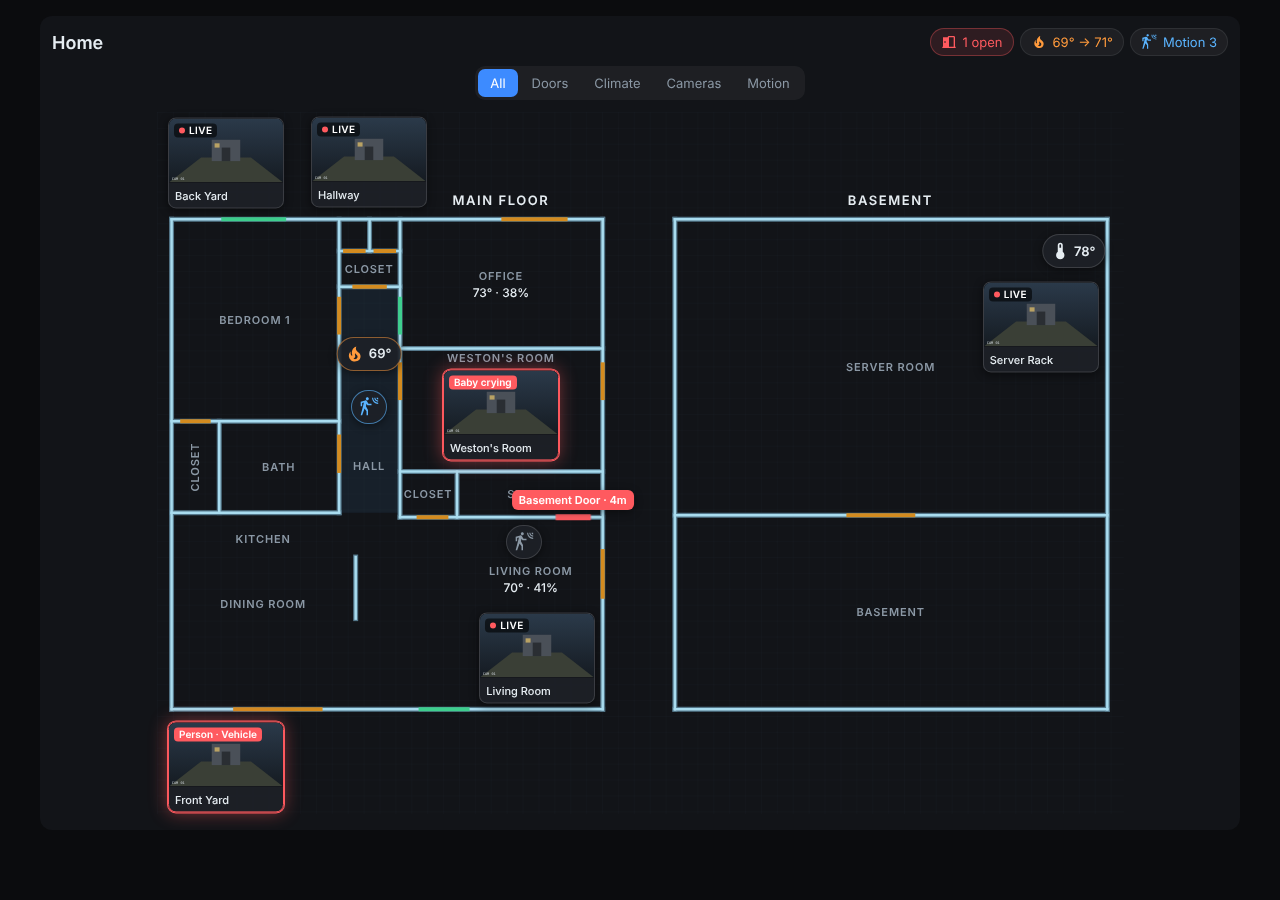
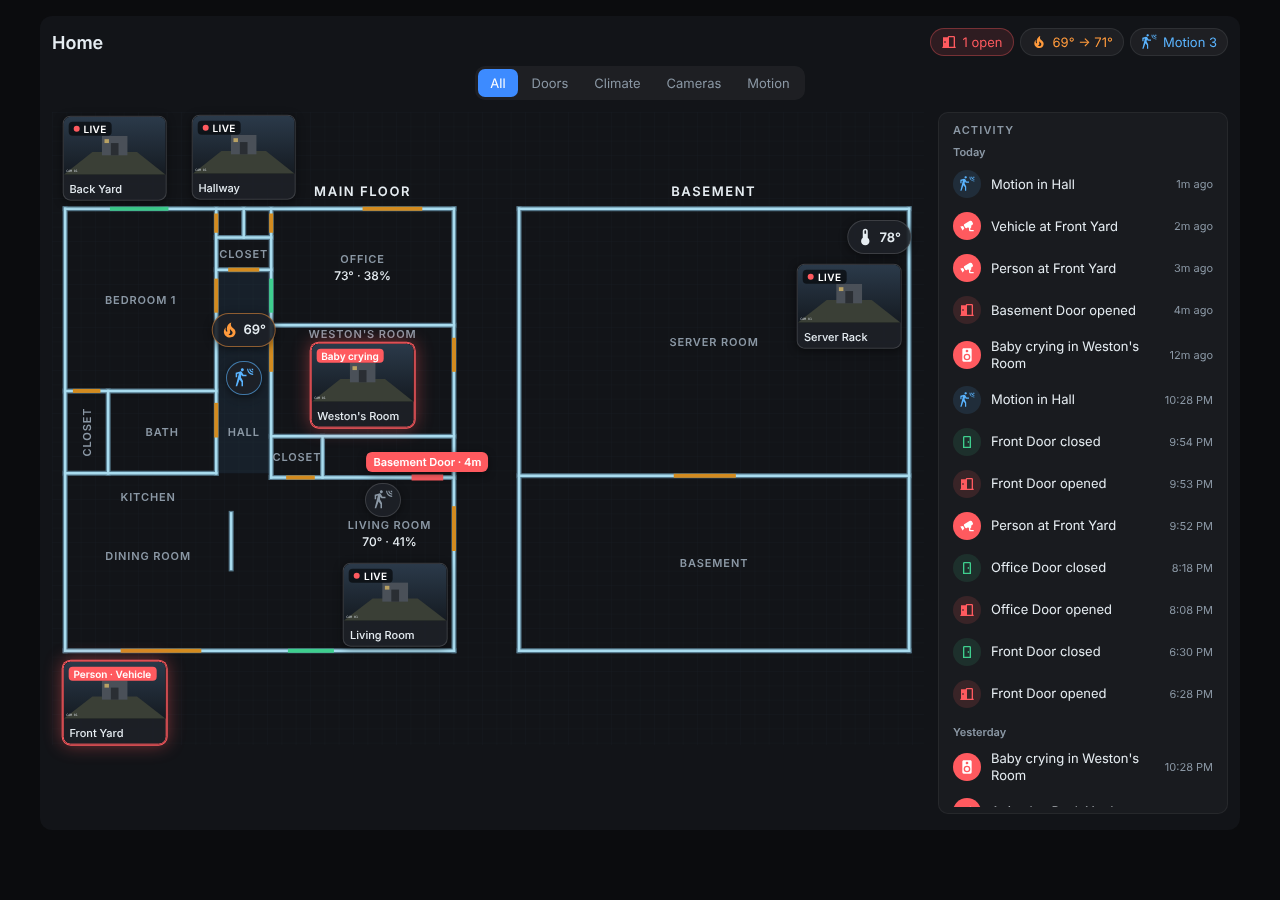
Add activity feed, move small closet doors to bedroom and office

Changed region(s): [[0.0312, 0.1244, 0.875, 0.9333], [0.9062, 0.84, 0.9375, 0.8711], [0.9062, 0.4356, 0.9375, 0.4667]]

diff --git a/home-view-card.js b/home-view-card.js
@@ -1,4 +1,4 @@
-const VERSION = "0.3.1";
+const VERSION = "0.4.0";
 
 const ICON = {
   door: "M8,3C6.89,3 6,3.89 6,5V21H18V5C18,3.89 17.11,3 16,3H8M8,5H16V19H8V5M13,11V13H15V11H13Z",
@@ -26,7 +26,7 @@ const ICON = {
   help: "M11,18H13V16H11V18M12,2A10,10 0 0,0 2,12A10,10 0 0,0 12,22A10,10 0 0,0 22,12A10,10 0 0,0 12,2M12,20C7.59,20 4,16.41 4,12C4,7.59 7.59,4 12,4C16.41,4 20,7.59 20,12C20,16.41 16.41,20 12,20M12,6A4,4 0 0,0 8,10H10A2,2 0 0,1 12,8A2,2 0 0,1 14,10C14,12 11,11.75 11,15H13C13,12.75 16,12.5 16,10A4,4 0 0,0 12,6Z",
 };
 
-const DEFAULT_PLAN = {view_box:[55,-115,1460,1060],stack:{split_x:780,move:[-760,920],below:700},labels:[{text:"Main Floor",x:575,y:18},{text:"Basement",x:1163,y:18}],rooms:[{name:"Bedroom 1",rect:[77,47,330,352]},{name:"Closet",rect:[77,352,149,490],vertical:true},{name:"Bath",rect:[149,352,330,490]},{name:"Closet",rect:[330,95,422,149]},{rect:[330,47,376,95]},{rect:[376,47,422,95]},{name:"Hall",rect:[330,149,422,490],label_at:[376,420]},{name:"Office",rect:[422,47,728,242]},{name:"Weston's Room",rect:[422,242,728,428],label_at:[575,256]},{name:"Closet",rect:[422,428,508,497]},{name:"Stairs",rect:[508,428,728,497]},{name:"Kitchen",rect:[77,490,355,650],label_at:[216,530]},{name:"Living Room",points:[[355,490],[422,490],[422,497],[728,497],[728,787],[355,787]],label_at:[620,590]},{name:"Dining Room",rect:[77,650,355,787],label_at:[216,628]},{name:"Server Room",rect:[837,47,1490,494]},{name:"Basement",rect:[837,494,1490,787]}],walls:[[77,47,728,47],[728,47,728,787],[728,787,77,787],[77,787,77,47],[330,47,330,490],[77,352,330,352],[422,47,422,497],[422,242,728,242],[422,428,728,428],[422,497,728,497],[355,557,355,650],[77,490,330,490],[508,428,508,497],[149,352,149,490],[330,149,422,149],[330,95,422,95],[376,47,376,95],[837,47,1490,47],[1490,47,1490,787],[1490,787,837,787],[837,787,837,47],[837,494,1490,494]],half_walls:[],openings:[{name:"Front Door",type:"door",line:[450,787,527,787]},{name:"Patio Door",type:"door",line:[170,787,305,787]},{name:"Side Door",type:"door",line:[728,545,728,620]},{name:"Bedroom Sliding",type:"door",line:[152,47,250,47]},{name:"Office Window",type:"window",line:[575,47,675,47]},{name:"Bedroom 1 Door",line:[330,164,330,221]},{name:"Hall Closet Door",line:[350,149,402,149]},{name:"Closet Door",line:[336,95,370,95]},{name:"Closet Door",line:[382,95,416,95]},{name:"Bedroom 1 Closet Door",line:[90,352,136,352]},{name:"Bath Door",line:[330,372,330,430]},{name:"Office Door",type:"door",line:[422,164,422,221]},{name:"Weston's Room Door",line:[422,263,422,320]},{name:"Weston's Room Window",type:"window",line:[728,263,728,320]},{name:"Closet Door",line:[447,497,495,497]},{name:"Basement Door",type:"door",line:[657,497,710,497]},{name:"Basement Door",line:[1096,494,1200,494]}]};
+const DEFAULT_PLAN = {view_box:[55,-115,1460,1060],stack:{split_x:780,move:[-760,920],below:700},labels:[{text:"Main Floor",x:575,y:18},{text:"Basement",x:1163,y:18}],rooms:[{name:"Bedroom 1",rect:[77,47,330,352]},{name:"Closet",rect:[77,352,149,490],vertical:true},{name:"Bath",rect:[149,352,330,490]},{name:"Closet",rect:[330,95,422,149]},{rect:[330,47,376,95]},{rect:[376,47,422,95]},{name:"Hall",rect:[330,149,422,490],label_at:[376,420]},{name:"Office",rect:[422,47,728,242]},{name:"Weston's Room",rect:[422,242,728,428],label_at:[575,256]},{name:"Closet",rect:[422,428,508,497]},{name:"Stairs",rect:[508,428,728,497]},{name:"Kitchen",rect:[77,490,355,650],label_at:[216,530]},{name:"Living Room",points:[[355,490],[422,490],[422,497],[728,497],[728,787],[355,787]],label_at:[620,590]},{name:"Dining Room",rect:[77,650,355,787],label_at:[216,628]},{name:"Server Room",rect:[837,47,1490,494]},{name:"Basement",rect:[837,494,1490,787]}],walls:[[77,47,728,47],[728,47,728,787],[728,787,77,787],[77,787,77,47],[330,47,330,490],[77,352,330,352],[422,47,422,497],[422,242,728,242],[422,428,728,428],[422,497,728,497],[355,557,355,650],[77,490,330,490],[508,428,508,497],[149,352,149,490],[330,149,422,149],[330,95,422,95],[376,47,376,95],[837,47,1490,47],[1490,47,1490,787],[1490,787,837,787],[837,787,837,47],[837,494,1490,494]],half_walls:[],openings:[{name:"Front Door",type:"door",line:[450,787,527,787]},{name:"Patio Door",type:"door",line:[170,787,305,787]},{name:"Side Door",type:"door",line:[728,545,728,620]},{name:"Bedroom Sliding",type:"door",line:[152,47,250,47]},{name:"Office Window",type:"window",line:[575,47,675,47]},{name:"Bedroom 1 Door",line:[330,164,330,221]},{name:"Hall Closet Door",line:[350,149,402,149]},{name:"Bedroom 1 Closet Door",line:[330,55,330,87]},{name:"Office Closet Door",line:[422,55,422,87]},{name:"Bedroom 1 Closet Door",line:[90,352,136,352]},{name:"Bath Door",line:[330,372,330,430]},{name:"Office Door",type:"door",line:[422,164,422,221]},{name:"Weston's Room Door",line:[422,263,422,320]},{name:"Weston's Room Window",type:"window",line:[728,263,728,320]},{name:"Closet Door",line:[447,497,495,497]},{name:"Basement Door",type:"door",line:[657,497,710,497]},{name:"Basement Door",line:[1096,494,1200,494]}]};
 
 const OPEN_STATES = new Set(["on", "open", "opening", "closing", "unlocked", "unlocking", "jammed"]);
 const DEAD_STATES = new Set(["unavailable", "unknown"]);
@@ -134,6 +134,7 @@ const STYLE = `
 }
 ha-card {
   display: block;
+  container: hv-card / inline-size;
   padding: 12px 12px 16px;
   background: var(--hv-bg);
   color: var(--hv-text);
@@ -165,6 +166,35 @@ ha-card {
   font: inherit; font-size: 13px; cursor: pointer; white-space: nowrap; flex: none;
 }
 .tab.on { background: var(--hv-accent); color: #fff; }
+.body { display: flex; flex-direction: column; gap: 14px; }
+.plan-wrap { min-width: 0; }
+.log {
+  display: flex; flex-direction: column; box-sizing: border-box; max-height: 340px; padding: 10px 6px 6px;
+  border-radius: 10px; border: 1px solid rgba(255,255,255,0.06); background: rgba(255,255,255,0.03);
+}
+.log h3 { margin: 0 8px 6px; color: var(--hv-muted); font-size: 11px; font-weight: 600; letter-spacing: 0.1em; text-transform: uppercase; }
+.log ul { list-style: none; margin: 0; padding: 0; overflow-y: auto; scrollbar-width: thin; }
+.log .day { padding: 10px 8px 4px; color: var(--hv-muted); font-size: 11px; font-weight: 600; }
+.log .day:first-child { padding-top: 2px; }
+.log .item {
+  display: flex; align-items: center; gap: 10px; width: 100%; padding: 7px 8px; border: 0; border-radius: 8px;
+  background: none; color: var(--hv-text); font: inherit; text-align: left; cursor: pointer;
+}
+.log .item:hover { background: rgba(255,255,255,0.05); }
+.log .dot { display: grid; place-items: center; flex: none; width: 28px; height: 28px; border-radius: 50%; background: rgba(255,255,255,0.06); color: var(--hv-muted); }
+.log .dot svg { width: 16px; height: 16px; fill: currentColor; }
+.log .open .dot { color: var(--hv-open); background: rgba(255,90,95,0.14); }
+.log .ok .dot { color: var(--hv-closed); background: rgba(62,207,142,0.12); }
+.log .cool .dot { color: var(--hv-cool); background: rgba(90,180,255,0.12); }
+.log .alert .dot { color: #fff; background: var(--hv-open); }
+.log .txt { flex: 1; min-width: 0; font-size: 13px; line-height: 1.3; }
+.log .when { flex: none; color: var(--hv-muted); font-size: 11px; white-space: nowrap; }
+.log .empty { padding: 8px; color: var(--hv-muted); font-size: 13px; }
+@container hv-card (min-width: 860px) {
+  .body { flex-direction: row; align-items: flex-start; }
+  .plan-wrap { flex: 1 1 auto; }
+  .log { flex: none; width: var(--hv-log-width, 290px); max-height: var(--hv-max-height, 78vh); }
+}
 .plan {
   position: relative; margin: 0 auto;
   aspect-ratio: var(--ratio);
@@ -298,6 +328,9 @@ class HomeViewCard extends HTMLElement {
 
   setConfig(config) {
     if (!config) throw new Error("Invalid configuration");
+    this._events = [];
+    this._seen = new Map();
+    this._historyLoaded = false;
     this._config = config.walls || config.rooms ? config : { ...DEFAULT_PLAN, ...config };
     this._built = false;
     if (this._hass) this._build();
@@ -370,7 +403,9 @@ class HomeViewCard extends HTMLElement {
     if (this._stacked) {
       const { split_x, move: [mx, my] } = cfg.stack;
       shift = (x, y) => (x >= split_x ? [x + mx, y + my] : [x, y]);
-      vb = [vb[0], vb[1], vb[2] + mx, vb[3] + my];
+      const moved = (cfg.walls || []).filter((w) => w[0] >= split_x && w[2] >= split_x).flatMap((w) => [w[1], w[3]]);
+      const bottom = Math.max(vb[1] + vb[3], ...moved.map((y) => y + my + 24));
+      vb = [vb[0], vb[1], vb[2] + mx, bottom - vb[1]];
     }
     const t = transform(vb, this._rotation);
     const fn = (x, y) => t.fn(...shift(x, y));
@@ -482,7 +517,16 @@ class HomeViewCard extends HTMLElement {
     });
 
     plan.append(svg, overlay);
-    card.append(plan);
+    const body = h("div", { class: "body" }, h("div", { class: "plan-wrap" }, plan));
+    this._watch = this._watchList();
+    this._log = null;
+    if (cfg.log !== false && this._watch.size) {
+      this._logList = h("ul");
+      this._log = h("aside", { class: "log" }, h("h3", {}, cfg.log_title || "Activity"), this._logList);
+      body.append(this._log);
+      this._logKey = "";
+    }
+    card.append(body);
     root.append(card);
     this._built = true;
     if (hass) {
@@ -490,6 +534,145 @@ class HomeViewCard extends HTMLElement {
       this._update();
       this._refreshCameras();
     }
+  }
+
+  _watchList() {
+    const cfg = this._config;
+    const m = new Map();
+    for (const o of cfg.openings || []) {
+      if (o.entity) m.set(o.entity, { type: o.type === "window" ? "window" : "door", name: o.name });
+    }
+    for (const r of cfg.rooms || []) {
+      for (const e of [].concat(r.motion || [])) m.set(e, { type: "motion", name: r.name, where: "in" });
+    }
+    for (const d of cfg.devices || []) {
+      const domain = d.entity.split(".")[0];
+      if (domain === "camera") {
+        const name = d.name || this._hass?.states[d.entity]?.attributes.friendly_name || d.entity;
+        for (const e of [].concat(d.motion || [])) m.set(e, { type: "motion", name, where: "at", camera: d.entity });
+        for (const e of [].concat(d.detections || [])) m.set(e, { type: "detect", name, camera: d.entity });
+      } else if (domain === "binary_sensor" && !m.has(d.entity)) {
+        const dc = this._hass?.states[d.entity]?.attributes.device_class;
+        if (OPENING_CLASSES.has(dc)) m.set(d.entity, { type: dc === "window" ? "window" : "door", name: d.name });
+        else if (MOTION_CLASSES.has(dc)) m.set(d.entity, { type: "motion", name: d.name, where: "at" });
+      }
+    }
+    return m;
+  }
+
+  _describe(id, state) {
+    const w = this._watch.get(id);
+    if (!w || DEAD_STATES.has(state)) return null;
+    const on = state === "on" || state === "open";
+    const name = w.name || this._hass.states[id]?.attributes.friendly_name || id;
+    if (w.type === "door" || w.type === "window") {
+      const open = w.type === "window" ? ICON.windowOpen : ICON.doorOpen;
+      const shut = w.type === "window" ? ICON.window : ICON.door;
+      return on ? { text: `${name} opened`, tone: "open", icon: open } : { text: `${name} closed`, tone: "ok", icon: shut };
+    }
+    if (!on) return null;
+    if (w.type === "motion") return { text: `Motion ${w.where || "at"} ${name}`, tone: "cool", icon: ICON.motion, target: w.camera };
+    const m = id.match(/baby_cry|person|vehicle|animal|package|face|smoke|glass_break|motion/);
+    const label = m ? DETECT_LABELS[m[0]] : this._hass.states[id]?.attributes.friendly_name || "Detection";
+    const text = m?.[0] === "baby_cry" ? `Baby crying in ${name}` : `${label} at ${name}`;
+    return { text, tone: "alert", icon: m?.[0] === "baby_cry" ? ICON.speaker : ICON.cctv, target: w.camera };
+  }
+
+  _pushEvent(id, state, when) {
+    if (!this._describe(id, state)) return false;
+    if (this._events.some((e) => e.id === id && e.when === when)) return false;
+    this._events.push({ id, state, when });
+    return true;
+  }
+
+  _trackEvents() {
+    if (!this._watch?.size) return;
+    let changed = false;
+    for (const id of this._watch.keys()) {
+      const st = this._hass.states[id];
+      if (!st) continue;
+      const prev = this._seen.get(id);
+      if (prev && prev.lc !== st.last_changed && prev.state !== st.state) {
+        changed = this._pushEvent(id, st.state, Date.parse(st.last_changed)) || changed;
+      }
+      this._seen.set(id, { lc: st.last_changed, state: st.state });
+    }
+    if (changed) this._trimEvents();
+    if (!this._historyLoaded && this._log) {
+      this._historyLoaded = true;
+      this._loadHistory();
+    }
+  }
+
+  _trimEvents() {
+    this._events.sort((a, b) => b.when - a.when);
+    this._events.length = Math.min(this._events.length, this._config.log_max || 60);
+  }
+
+  async _loadHistory() {
+    const hass = this._hass;
+    if (!hass.callApi) return;
+    const hours = this._config.log_hours || 24;
+    const start = new Date(Date.now() - hours * 3600000).toISOString();
+    const ids = [...this._watch.keys()].filter((id) => hass.states[id]);
+    if (!ids.length) return;
+    try {
+      const data = await hass.callApi(
+        "GET",
+        `history/period/${start}?filter_entity_id=${ids.join(",")}&minimal_response&no_attributes`
+      );
+      for (const list of data || []) {
+        const id = list[0]?.entity_id;
+        let prev = list[0]?.state;
+        for (const s of list.slice(1)) {
+          if (s.state !== prev) this._pushEvent(id, s.state, Date.parse(s.last_changed));
+          prev = s.state;
+        }
+      }
+      this._trimEvents();
+      this._renderLog();
+    } catch (err) {
+      console.warn("home-view-card: could not load history", err);
+    }
+  }
+
+  _renderLog() {
+    if (!this._log) return;
+    const now = new Date();
+    const key = `${this._events.length}:${this._events[0]?.when}:${Math.floor(now / 60000)}`;
+    if (key === this._logKey) return;
+    this._logKey = key;
+    const dayName = (d) => {
+      const days = Math.round((new Date(now).setHours(0, 0, 0, 0) - new Date(d).setHours(0, 0, 0, 0)) / 86400000);
+      if (days === 0) return "Today";
+      if (days === 1) return "Yesterday";
+      return d.toLocaleDateString([], { weekday: "long", month: "short", day: "numeric" });
+    };
+    const when = (ms) => {
+      const min = Math.floor((now - ms) / 60000);
+      if (min < 1) return "just now";
+      if (min < 60) return `${min}m ago`;
+      return new Date(ms).toLocaleTimeString([], { hour: "numeric", minute: "2-digit" });
+    };
+    const items = [];
+    let lastDay = "";
+    for (const e of this._events) {
+      const info = this._describe(e.id, e.state);
+      if (!info) continue;
+      const day = dayName(new Date(e.when));
+      if (day !== lastDay) {
+        items.push(h("li", { class: "day" }, day));
+        lastDay = day;
+      }
+      const dot = h("span", { class: "dot" });
+      dot.innerHTML = iconSvg(info.icon);
+      const btn = h("button", { class: `item ${info.tone}`, title: new Date(e.when).toLocaleString() }, dot,
+        h("span", { class: "txt" }, info.text), h("span", { class: "when" }, when(e.when)));
+      btn.addEventListener("click", () => this._moreInfo(info.target || e.id));
+      items.push(h("li", {}, btn));
+    }
+    if (!items.length) items.push(h("li", { class: "empty" }, "Nothing yet. Door, motion and camera events will show up here."));
+    this._logList.replaceChildren(...items);
   }
 
   _bindPress(node, onTap, onHold) {
@@ -682,6 +865,8 @@ class HomeViewCard extends HTMLElement {
     }
 
     this._renderChips({ openNames, watched, locks, unlocked, lightsOn, motion, climate });
+    this._trackEvents();
+    this._renderLog();
     if (!this._tabs.childElementCount) this._renderTabs();
     this._applyLayer();
   }

diff --git a/demo/index.html b/demo/index.html
@@ -61,7 +61,26 @@ const states = {
 };
 
 const card = document.getElementById("card");
-const push = () => { card.hass = { states: { ...states }, callService, hassUrl: (p) => p }; };
+const push = () => { card.hass = { states: { ...states }, callService, callApi, hassUrl: (p) => p }; };
+
+async function callApi(method, path) {
+  const ids = decodeURIComponent(path.split("filter_entity_id=")[1].split("&")[0]).split(",");
+  const at = (min) => new Date(Date.now() - min * 60000).toISOString();
+  const script = {
+    "binary_sensor.door_front_contact": [[300, "on"], [298, "off"], [95, "on"], [94, "off"]],
+    "binary_sensor.door_office_contact": [[200, "on"], [190, "off"]],
+    "binary_sensor.door_basement_contact": [[4, "on"]],
+    "binary_sensor.driveway_person_detected": [[96, "on"], [95, "off"], [3, "on"]],
+    "binary_sensor.driveway_vehicle_detected": [[2, "on"]],
+    "binary_sensor.westons_room_baby_cry_detected": [[1500, "on"], [1497, "off"], [12, "on"]],
+    "binary_sensor.hallway1_motion": [[60, "on"], [59, "off"], [1, "on"]],
+    "binary_sensor.backyard_animal_detected": [[1700, "on"], [1699, "off"]],
+  };
+  return ids.filter((id) => script[id]).map((id) => [
+    { entity_id: id, state: "off", last_changed: at(1800) },
+    ...script[id].map(([m, s]) => ({ state: s, last_changed: at(m) })),
+  ]);
+}
 
 function callService(domain, service, data) {
   const id = data.entity_id;

diff --git a/README.md b/README.md
@@ -7,6 +7,7 @@ A Lovelace card that draws your house as a blueprint and puts your devices on it
 - Rooms glow when their lights are on and tint blue when their motion sensor fires.
 - A status row up top (open doors, locks, thermostat, lights on, motion) and filter tabs (Doors, Climate, Cameras, Lights, Motion, Sensors).
 - Camera markers can show a live snapshot that refreshes every 10 seconds.
+- An activity feed in plain words: "Front Door opened", "Person at Front Yard", "Baby crying in Weston's Room". Tap an entry to open that door or camera.
 - No build step, no dependencies. One JS file.
 
 ![screenshot](docs/screenshot.png)
@@ -55,6 +56,10 @@ Everything is drawn in one coordinate space that you pick. The example uses the 
 | `layers` | `true` | Filter tabs |
 | `grid` | `true` | Blueprint grid behind the plan |
 | `camera_refresh` | `10` | Seconds between camera preview refreshes |
+| `log` | `true` | Activity feed of door, motion and camera events. Sits to the right of the plan on wide screens and below it on narrow ones. |
+| `log_title` | `Activity` | Heading for the feed |
+| `log_hours` | `24` | How far back to load history when the card opens |
+| `log_max` | `60` | Most entries to keep |
 | `labels` | | Free text on the plan, e.g. floor names: `[{text: Basement, x: 1163, y: 18}]` |
 | `stack` | | Put a second floor under the first on narrow screens. `split_x`: everything right of this x is the second floor. `move: [dx, dy]`: how far to shift it. `below`: card width in px where stacking kicks in (default `700`). |
 
